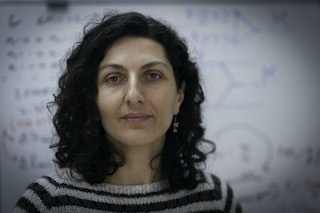
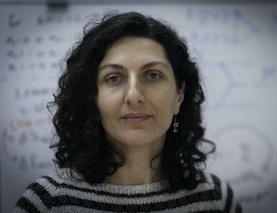
update profile pictures and add page for past members

diff --git a/pages/about/past_members.md b/pages/about/past_members.md
@@ -1,0 +1,21 @@
+---
+layout: people
+title: Past members
+permalink: /about/past_members.html
+---
+
+{% assign past_members = site.data.people | values
+                                          | where_exp:"item", "item.active == false and item.hidden != true"
+                                          | sort: "title"
+                                          | last_name_sort: "name" %}
+
+
+# Past Members
+
+<div class="container-fluid">
+<div class="row">
+    {% for person in past_members %}
+        {% include standard_person_card.md person=person %}
+    {% endfor %}
+</div>
+</div>

diff --git a/pages/about/contact.md b/pages/about/contact.md
@@ -29,6 +29,7 @@ permalink: /about/contact.html
 </div>
 </div>
 
+{% comment %}
 {% if past_members.size > 0 %}
 <br>
 <hr>
@@ -43,3 +44,11 @@ permalink: /about/contact.html
 </div>
 </div>
 {% endif %}
+{% endcomment %}
+
+<br>
+<hr>
+<br> 
+## Past Members
+
+For a list of the past members [click here]({% link pages/about/past_members.md %})
